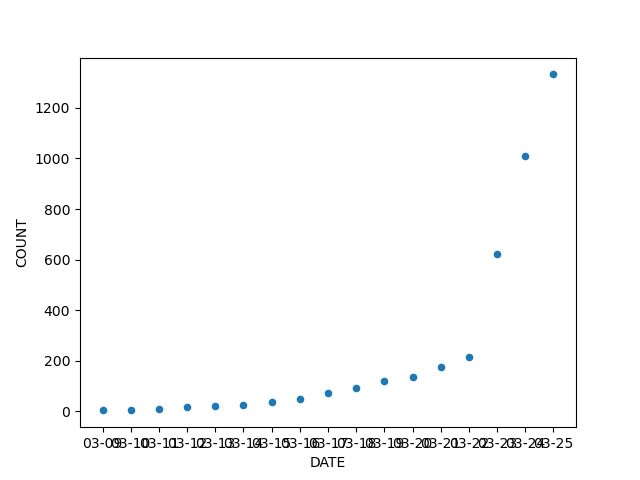
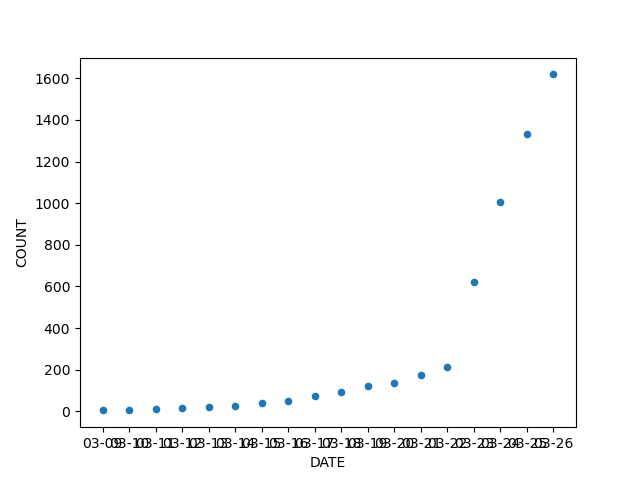
03/26

diff --git a/covid-19/README.md b/covid-19/README.md
@@ -12,3 +12,5 @@ Collection of cases from the [Quebec government site](https://www.quebec.ca/sant
 03/22 : The number of deaths related to COVID-19 is lower than what was announced on March 21, 2020. The test of one of these people was negative.
 
 03/23 : The significant increase in confirmed cases is explained by the fact that on March 22, 2020, cases tested positive by hospital laboratories are now considered confirmed. They no longer need validation by the Laboratoire de santé publique du Québec (LSPQ).
+
+03/26 : The linear increase in recent dates likely attributes to the limited testing conducted per day. - Note by me (not authority)
